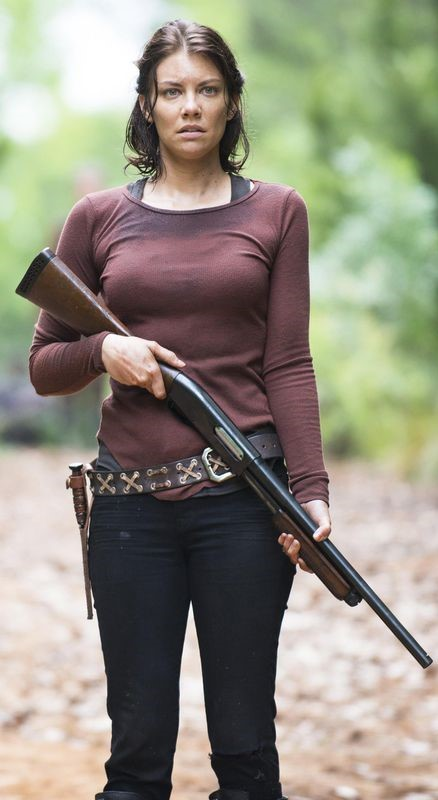
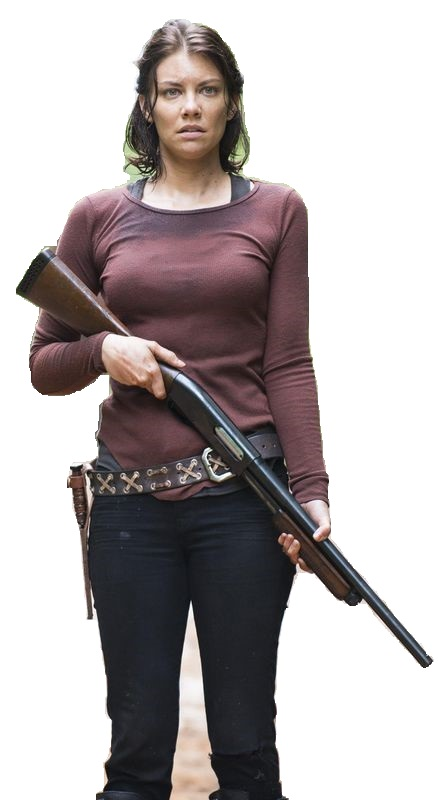
Ändra bild + finslippade funktioner

diff --git a/ZombieGame/game.html b/ZombieGame/game.html
@@ -7,7 +7,7 @@
 
     i = 0;
 
-    while (i < 10) {
+    while (i < 20) {
       zombies.push({x: random(totalWidth), y: random(totalHeight), speed: random(1,7)});
 
       i += 1;
@@ -15,14 +15,15 @@
 
     function update() {
         clearScreen();
+        hideMouse();
 
         fill("black");
 
-        picture(mouse.x, mouse.y, "rsz_maggie_rhee2.jpg"); /*Lägga till bild för musen*/
+        picture(mouse.x, mouse.y, "maggie_rhee3.jpg"); /*Lägga till bild för musen*/
 
         var i = 0;
 
-        while (i < 10) {
+        while (i < 20) {
 
           var zombie = zombies[i];
 
@@ -39,10 +40,9 @@
           } else {
             zombie.y -= zombie.speed;
           }
-
-          var spaceMouse = mouse.x - 10;
           
-          if (keyboard.space && distance(mouse, zombie) < 100) {
+            
+          if (keyboard.space && distance(mouse, zombie) < 150) { /*to push away zombies*/
             if(zombie.x < mouse.x) {
               zombie.x -= 20;
             } else if (zombie.x > mouse.x) {
@@ -53,24 +53,13 @@
             } else if (zombie.y > mouse.y) {
               zombie.y += 20;
             }
-            
-          /* else if (zombie.x = mouse.x + 10) {
-            zombie.x += 20;
-          }*/
-
-          /*if (zombie.y < mouse.y) {
-            zombie.y += zombie.speed;
-          } else {
-            zombie.y -= zombie.speed;
-          }*/
-                  
-                    /*push away zombie*/  
           }
 
-          /*if (distance(mouse, zombie) < 5) {
+          if (distance(mouse, zombie) < 10) {
             alert("Game over!");
             stopUpdate();
-          }*/
+            showMouse();
+          }
 
 
           i += 1;
